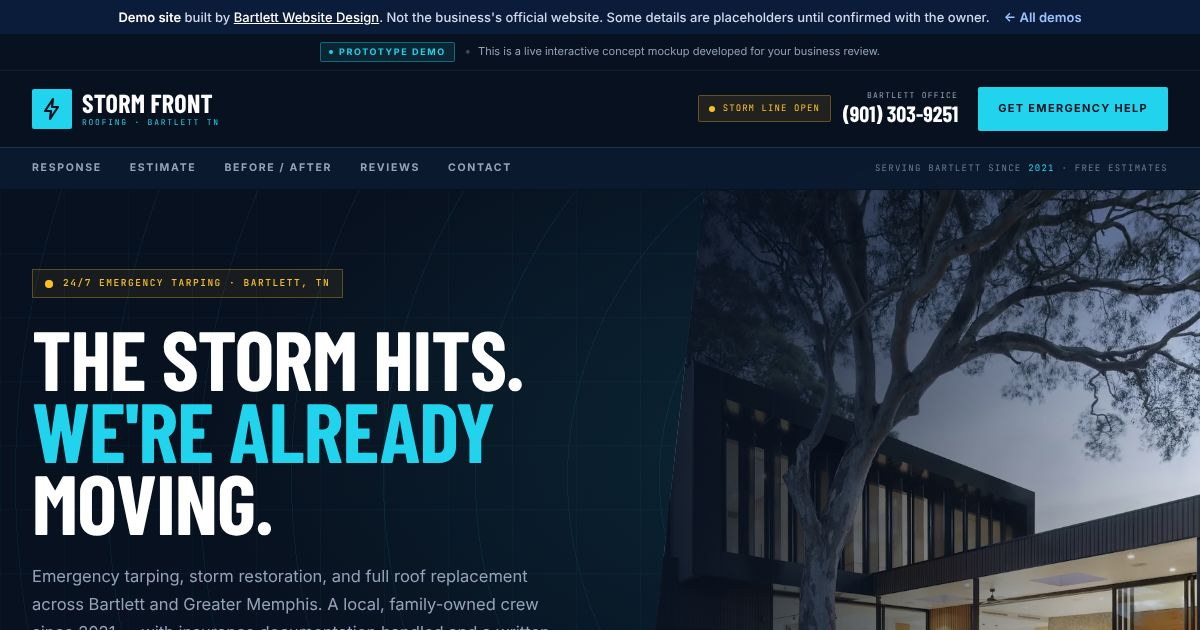
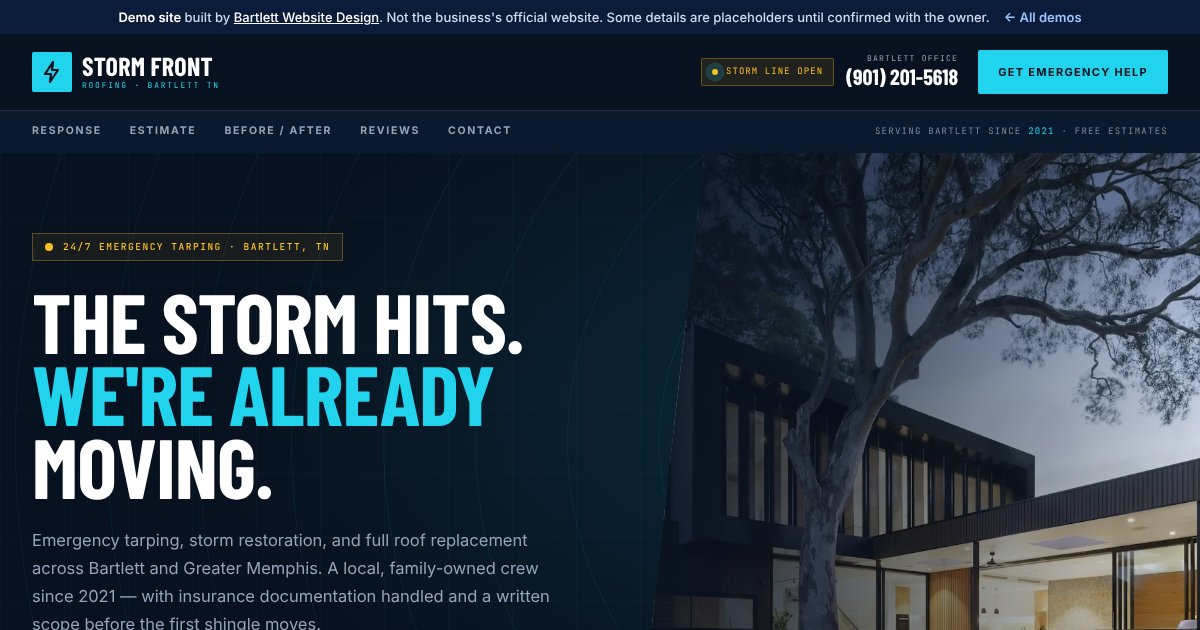
Storm Front demo: use (901) 201-5618 everywhere; retake its card and link-preview images
Claude-Session: https://claude.ai/code/session_01CaDQdnwoNFMBMWfeCY8P7B

diff --git a/demos/storm-front-roofing/index.html b/demos/storm-front-roofing/index.html
@@ -180,9 +180,9 @@ html>body:nth-child(2)>main:nth-child(3)>section:nth-child(7)>div:nth-child(1)>d
             <span class="h-1.5 w-1.5 rounded-full bg-amber pulse-ring"></span>
             <span class="font-mono text-[9px] uppercase tracking-[0.12em] text-amber">Storm line open</span>
           </span>
-          <a href="tel:+19013039251" class="text-right leading-tight">
+          <a href="tel:+19012015618" class="text-right leading-tight">
             <span class="block font-mono text-[8px] uppercase tracking-[0.16em] text-steel">Bartlett office</span>
-            <span class="block font-display text-[22px] font-bold text-white">(901) 303-9251</span>
+            <span class="block font-display text-[22px] font-bold text-white">(901) 201-5618</span>
           </a>
         </div>
 
@@ -190,7 +190,7 @@ html>body:nth-child(2)>main:nth-child(3)>section:nth-child(7)>div:nth-child(1)>d
           Get Emergency Help
         </a>
 
-        <a href="tel:+19013039251" class="ml-auto grid h-11 w-11 place-items-center rounded-sm bg-cyan text-night md:hidden" aria-label="Call Storm Front Roofing">
+        <a href="tel:+19012015618" class="ml-auto grid h-11 w-11 place-items-center rounded-sm bg-cyan text-night md:hidden" aria-label="Call Storm Front Roofing">
           <svg viewBox="0 0 24 24" class="h-[18px] w-[18px]" fill="none" stroke="currentColor" stroke-width="2" stroke-linecap="round" stroke-linejoin="round" aria-hidden="true"><path d="M22 16.9v3a2 2 0 0 1-2.2 2A19.8 19.8 0 0 1 2.1 4.2 2 2 0 0 1 4.1 2h3a2 2 0 0 1 2 1.7c.1 1 .4 1.9.7 2.8a2 2 0 0 1-.5 2.1L8 9.9a16 16 0 0 0 6.1 6.1l1.3-1.3a2 2 0 0 1 2.1-.5c.9.3 1.8.6 2.8.7a2 2 0 0 1 1.7 2Z"/></svg>
         </a>
         <button id="menu-toggle" type="button" class="grid h-11 w-11 place-items-center rounded-sm border border-white/15 text-white lg:hidden" aria-label="Open menu" aria-expanded="false" aria-controls="mobile-menu">
@@ -219,7 +219,7 @@ html>body:nth-child(2)>main:nth-child(3)>section:nth-child(7)>div:nth-child(1)>d
           <a href="#reviews" data-menu-link class="flex items-center justify-between border-b border-white/10 py-3.5 font-display text-[22px] font-semibold uppercase text-white">Reviews <span class="font-mono text-[10px] text-cyan">04</span></a>
           <a href="#contact" data-menu-link class="flex items-center justify-between border-b border-white/10 py-3.5 font-display text-[22px] font-semibold uppercase text-white">Contact <span class="font-mono text-[10px] text-cyan">05</span></a>
           <div class="mt-4 grid grid-cols-2 gap-2 pb-2">
-            <a href="tel:+19013039251" class="inline-flex h-12 items-center justify-center rounded-sm border border-white/15 text-[11px] font-bold uppercase tracking-[0.1em] text-white">Call Now</a>
+            <a href="tel:+19012015618" class="inline-flex h-12 items-center justify-center rounded-sm border border-white/15 text-[11px] font-bold uppercase tracking-[0.1em] text-white">Call Now</a>
             <a href="#contact" data-menu-link class="inline-flex h-12 items-center justify-center rounded-sm bg-cyan text-[11px] font-bold uppercase tracking-[0.1em] text-night">Get Help</a>
           </div>
         </nav>
@@ -265,8 +265,8 @@ html>body:nth-child(2)>main:nth-child(3)>section:nth-child(7)>div:nth-child(1)>d
               <svg viewBox="0 0 24 24" class="h-4 w-4" fill="none" stroke="currentColor" stroke-width="2.2" stroke-linecap="round" stroke-linejoin="round" aria-hidden="true"><path d="m13 2-8 12h6l-1 8 8-12h-6l1-8Z"/></svg>
               Get Emergency Help
             </a>
-            <a href="tel:+19013039251" class="inline-flex h-12 items-center justify-center gap-2 rounded-sm border border-white/20 px-7 text-[11.5px] font-bold uppercase tracking-[0.12em] text-white transition hover:border-cyan hover:text-cyan">
-              Call (901) 303-9251
+            <a href="tel:+19012015618" class="inline-flex h-12 items-center justify-center gap-2 rounded-sm border border-white/20 px-7 text-[11.5px] font-bold uppercase tracking-[0.12em] text-white transition hover:border-cyan hover:text-cyan">
+              Call (901) 201-5618
             </a>
           </div>
 
@@ -665,11 +665,11 @@ html>body:nth-child(2)>main:nth-child(3)>section:nth-child(7)>div:nth-child(1)>d
               send the form and we'll call back within 15 minutes during business hours.
             </p>
 
-            <a href="tel:+19013039251" class="mt-7 block border border-amber/30 bg-amber/[0.07] p-5 transition hover:bg-amber/10">
+            <a href="tel:+19012015618" class="mt-7 block border border-amber/30 bg-amber/[0.07] p-5 transition hover:bg-amber/10">
               <span class="flex items-center gap-2 font-mono text-[9px] uppercase tracking-[0.16em] text-amber">
                 <span class="h-1.5 w-1.5 rounded-full bg-amber pulse-ring"></span> 24/7 storm line
               </span>
-              <span class="mt-2 block font-display text-[34px] font-bold leading-none text-white">(901) 303-9251</span>
+              <span class="mt-2 block font-display text-[34px] font-bold leading-none text-white">(901) 201-5618</span>
             </a>
 
             <div class="mt-6 space-y-4 border-t border-white/10 pt-5 text-[12.5px] text-steel">
@@ -789,7 +789,7 @@ html>body:nth-child(2)>main:nth-child(3)>section:nth-child(7)>div:nth-child(1)>d
         <div>
           <h3 class="font-mono text-[9px] uppercase tracking-[0.18em] text-steel/50">Dispatch</h3>
           <ul class="mt-4 space-y-3 text-[12.5px] text-steel">
-            <li><a href="tel:+19013039251" class="font-display text-[22px] font-bold text-white transition hover:text-cyan">(901) 303-9251</a></li>
+            <li><a href="tel:+19012015618" class="font-display text-[22px] font-bold text-white transition hover:text-cyan">(901) 201-5618</a></li>
             <li>7731 US-70, Suite 107<br />Bartlett, TN 38133</li>
             <li class="text-[11px] opacity-70">stormfrontroofingtn.com</li>
             <li class="text-[11px]">Office Mon–Fri 8–5<br />24/7 emergency tarping</li>
@@ -815,7 +815,7 @@ html>body:nth-child(2)>main:nth-child(3)>section:nth-child(7)>div:nth-child(1)>d
   <!-- Mobile bar -->
   <div id="mobile-bar" role="navigation" aria-label="Quick actions" class="fixed inset-x-0 bottom-0 z-40 border-t border-white/10 bg-night/95 p-2.5 backdrop-blur transition duration-300 md:hidden">
     <div class="grid grid-cols-2 gap-2">
-      <a href="tel:+19013039251" class="inline-flex h-12 items-center justify-center gap-2 border border-amber/40 bg-amber/10 text-[11px] font-bold uppercase tracking-[0.1em] text-amber">
+      <a href="tel:+19012015618" class="inline-flex h-12 items-center justify-center gap-2 border border-amber/40 bg-amber/10 text-[11px] font-bold uppercase tracking-[0.1em] text-amber">
         <span class="h-1.5 w-1.5 rounded-full bg-amber pulse-ring"></span> Storm Line
       </a>
       <a href="#contact" class="inline-flex h-12 items-center justify-center bg-cyan text-[11px] font-bold uppercase tracking-[0.1em] text-night">Get Help</a>
@@ -836,7 +836,7 @@ html>body:nth-child(2)>main:nth-child(3)>section:nth-child(7)>div:nth-child(1)>d
 
       <h2 id="success-title" class="mt-5 font-display text-[32px] font-bold uppercase leading-none text-white">Demo only: nothing was sent.</h2>
       <p class="mt-2 text-[13.5px] leading-relaxed text-steel">
-              On the live site, this request would reach Storm Front Roofing right away. To reach them now, call <a href="tel:+19013039251" style="text-decoration:underline">(901) 303-9251</a>.
+              On the live site, this request would reach Storm Front Roofing right away. To reach them now, call <a href="tel:+19012015618" style="text-decoration:underline">(901) 201-5618</a>.
             </p>
 
       <div class="mt-5 border border-white/10 bg-night p-4 text-left">
@@ -848,8 +848,8 @@ html>body:nth-child(2)>main:nth-child(3)>section:nth-child(7)>div:nth-child(1)>d
         </ol>
       </div>
 
-      <a href="tel:+19013039251" class="mt-5 inline-flex h-11 w-full items-center justify-center bg-amber text-[11px] font-bold uppercase tracking-[0.1em] text-night">
-        Emergency? Call (901) 303-9251
+      <a href="tel:+19012015618" class="mt-5 inline-flex h-11 w-full items-center justify-center bg-amber text-[11px] font-bold uppercase tracking-[0.1em] text-night">
+        Emergency? Call (901) 201-5618
       </a>
     </div>
   </div>
